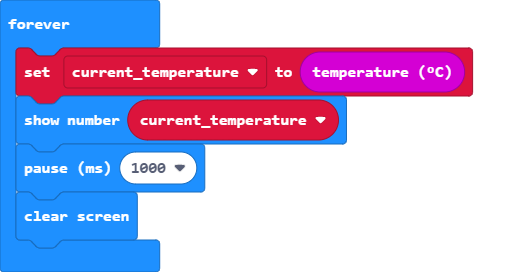
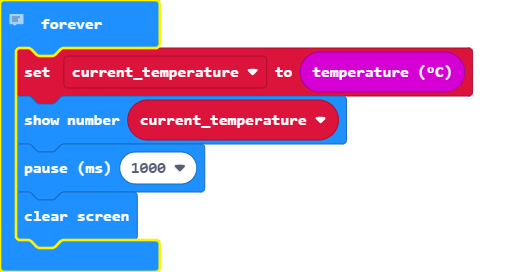
added a comment

Changed region(s): [[0.0, 0.0, 0.3352, 1.0]]

diff --git a/main.ts b/main.ts
@@ -1,4 +1,7 @@
 let current_temperature = 0
+// Created By: Mariam Abugamga
+// Created on: sept 28, 2020
+// This program uses a temperature
 basic.forever(function () {
     current_temperature = input.temperature()
     basic.showNumber(current_temperature)
